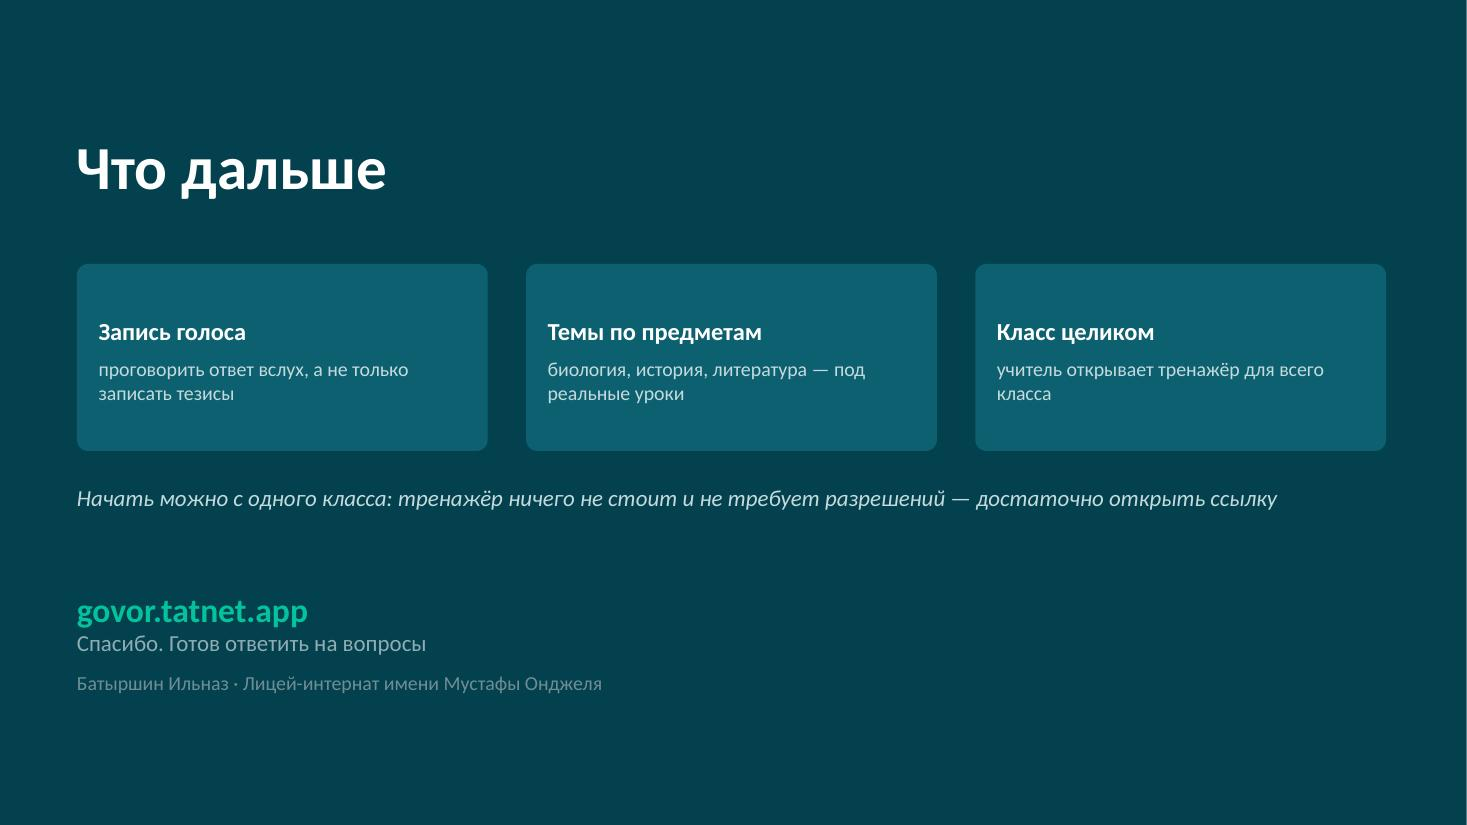
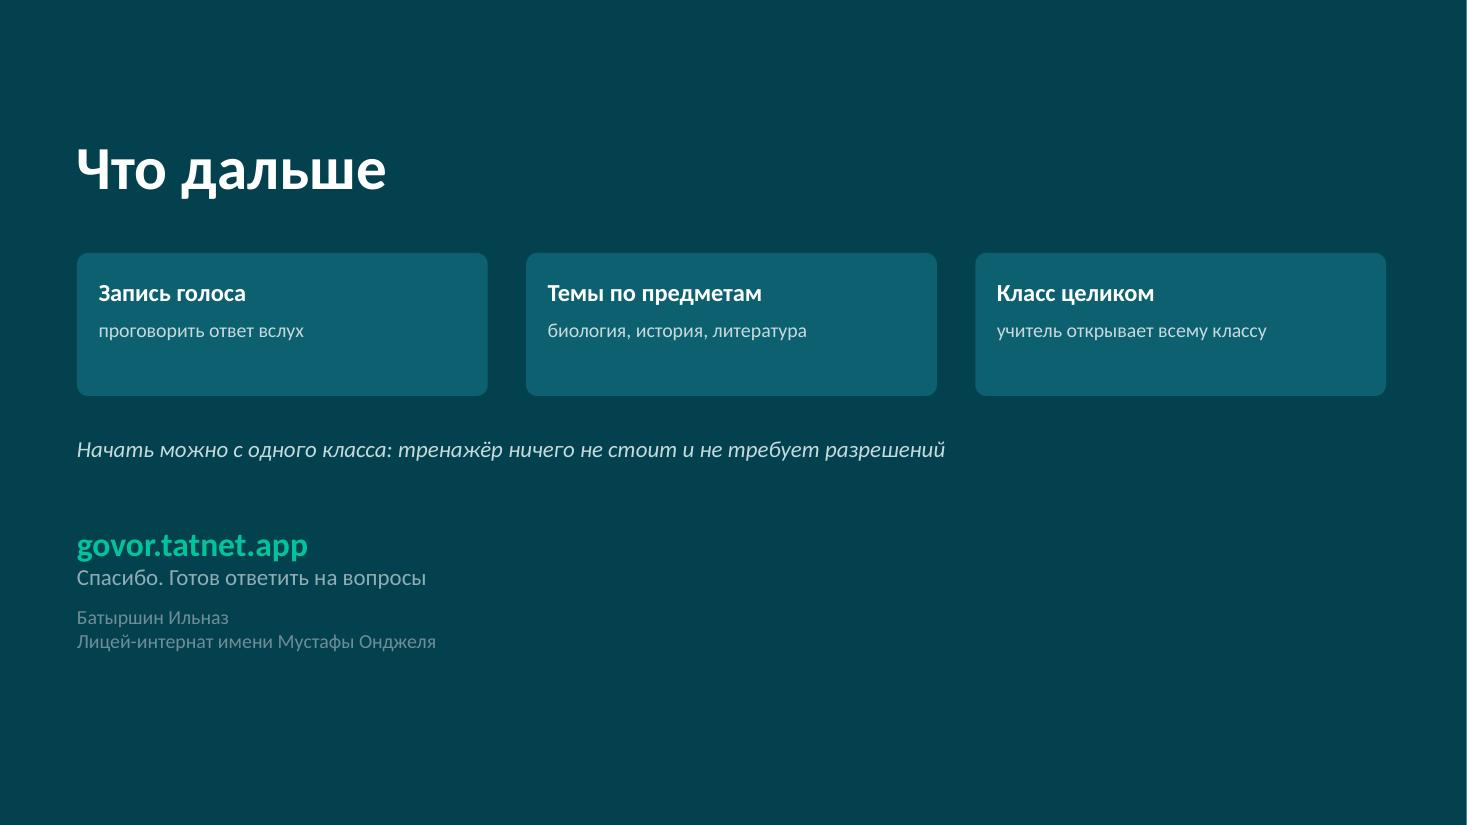
Презентация друга: запас по высоте в карточках последнего слайда
Claude-Session: https://claude.ai/code/session_01UCfuNZfDbrhxk1VzE5dQdM

diff --git a/deck/govor.js b/deck/govor.js
@@ -184,10 +184,11 @@ pres.addSection({ title: "Итог" });
 s = pres.addSlide({ masterName: "DARK", sectionTitle: "Итог" });
 title(s, "Что дальше", true);
 const nW = (W - 2 * M - 2 * 0.35) / 3;
+// Карточки с запасом по высоте: в PowerPoint шрифт шире и текст вылезал за края
 const nexts = [
-  ["Запись голоса", "проговорить ответ вслух, а не только записать тезисы"],
-  ["Темы по предметам", "биология, история, литература — под реальные уроки"],
-  ["Класс целиком", "учитель открывает тренажёр для всего класса"],
+  ["Запись голоса", "проговорить ответ вслух"],
+  ["Темы по предметам", "биология, история, литература"],
+  ["Класс целиком", "учитель открывает всему классу"],
 ];
 nexts.forEach((n, i) => {
   s.addText([
@@ -195,18 +196,19 @@ nexts.forEach((n, i) => {
     { text: " ", options: { fontSize: 6, breakLine: true } },
     { text: n[1], options: { fontSize: 13, color: "C5DADD" } },
   ], { shape: pres.ShapeType.roundRect, rectRadius: 0.1, fill: { color: "0C6070" },
-    x: M + i * (nW + 0.35), y: 2.4, w: nW, h: 1.7,
-    align: "left", valign: "middle", margin: [12, 16, 12, 16], objectName: "план " + (i + 1) });
+    x: M + i * (nW + 0.35), y: 2.3, w: nW, h: 1.3,
+    align: "left", valign: "top", margin: [12, 14, 12, 14], objectName: "план " + (i + 1) });
 });
-s.addText("Начать можно с одного класса: тренажёр ничего не стоит и не требует разрешений — достаточно открыть ссылку",
-  { x: M, y: 4.4, w: W - 2 * M, h: 0.8, isTextBox: true, margin: 0, fontSize: 15,
+s.addText("Начать можно с одного класса: тренажёр ничего не стоит и не требует разрешений",
+  { x: M, y: 3.95, w: W - 2 * M, h: 0.5, isTextBox: true, margin: 0, fontSize: 15,
     color: "C5DADD", italic: true, valign: "top" });
 s.addText([
   { text: "govor.tatnet.app", options: { fontSize: 22, bold: true, color: THEME.colors.accent4, breakLine: true } },
   { text: "Спасибо. Готов ответить на вопросы", options: { fontSize: 15, color: "8FAEB3", breakLine: true } },
   { text: " ", options: { fontSize: 8, breakLine: true } },
-  { text: "Батыршин Ильназ · Лицей-интернат имени Мустафы Онджеля", options: { fontSize: 13, color: "6E8E94" } },
-], { x: M, y: 5.35, w: 10.0, h: 1.6, isTextBox: true, margin: 0, valign: "top", objectName: "подпись" });
+  { text: "Батыршин Ильназ", options: { fontSize: 13, color: "6E8E94", breakLine: true } },
+  { text: "Лицей-интернат имени Мустафы Онджеля", options: { fontSize: 13, color: "6E8E94" } },
+], { x: M, y: 4.75, w: 10.0, h: 2.2, isTextBox: true, margin: 0, valign: "top", objectName: "подпись" });
 s.addNotes("Закончить на планах и поблагодарить.");
 
 (async () => {
